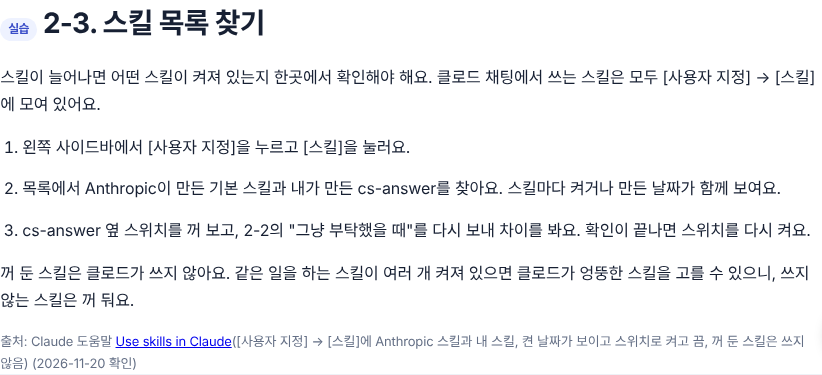
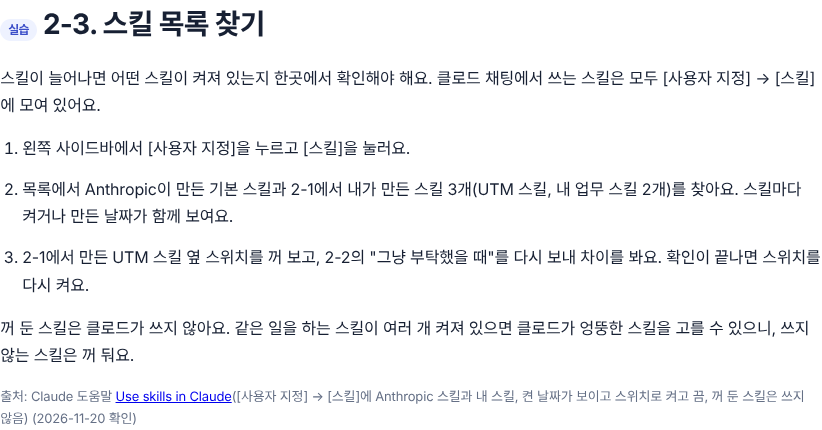
4주차 DAY5: 2-1·2-2를 오늘 수업 흐름(UTM 스킬, / 목록, ChatGPT 비교)으로, SESSION 3 세 가지 손 공식 이름·제품별 사용처 추가
Claude-Session: https://claude.ai/code/session_01C4uqyBneZ5NsxtxVEAgaKi

diff --git a/261116-ai-pm-week4/d5-agent.html b/261116-ai-pm-week4/d5-agent.html
@@ -311,7 +311,7 @@ aside nav a.active{border-left-color:var(--blue)}
 <div class="grp"><div class="grp-label">오늘의 단어</div><a class="l2" href="#words">오늘의 단어</a></div>
 <div class="grp"><div class="grp-label">SESSION 1</div><a class="l2" href="#s1">에이전트란? 채팅과 무엇이 다른가</a><a class="l3" href="#s1-1">1-1. 한 번 답하기 vs 끝까지 해 나가기</a><a class="l3" href="#s1-2">1-2. ChatGPT·Claude·Gemini의 에이전트 기능 이름</a><a class="l3" href="#s1-3">1-3. 이번 주 작업에서 에이전트 단계 찾기</a></div>
 <div class="grp"><div class="grp-label">SESSION 2</div><a class="l2" href="#s2">스킬: 일하는 방법을 적어 두기</a><a class="l3" href="#s2-1">2-1. 클로드 채팅에서 스킬 만들기</a><a class="l3" href="#s2-2">2-2. 스킬 써 보기</a><a class="l3" href="#s2-3">2-3. 스킬 목록 찾기</a><a class="l3" href="#s2-4">2-4. 많이 쓰이는 공개 스킬 찾아서 써 보기</a><a class="l3" href="#s2-5">2-5. 결과</a></div>
-<div class="grp"><div class="grp-label">SESSION 3</div><a class="l2" href="#s3">손이 생긴 AI: 커넥터·브라우저·컴퓨터</a><a class="l3" href="#s3-1">3-1. 세 가지 손 견주기</a><a class="l3" href="#s3-2">3-2. 브라우저 손으로 정보 모으기</a></div>
+<div class="grp"><div class="grp-label">SESSION 3</div><a class="l2" href="#s3">손이 생긴 AI: 커넥터·클로드 인 크롬·컴퓨터 유즈</a><a class="l3" href="#s3-1">3-1. 세 가지 손: 공식 이름과 뜻</a><a class="l3" href="#s3-2">3-2. 클로드 인 크롬으로 정보 모으기</a></div>
 <div class="grp"><div class="grp-label">SESSION 4</div><a class="l2" href="#s4">사람이 확인할 곳 정하기</a><a class="l3" href="#s4-1">4-1. 쿠폰을 만들었다고 했는데, 아무것도 없었어요</a><a class="l3" href="#s4-2">4-2. 내 서비스의 '사람이 확인할 곳' 표</a><a class="l3" href="#s4-3">4-3. 결과</a></div>
 <div class="grp"><div class="grp-label">SESSION 5</div><a class="l2" href="#s5">4주차 회고</a><a class="l3" href="#s5-1">5-1. 이번 주 결과물 모으기</a></div>
 <div class="grp"><div class="grp-label">마무리</div><a class="l2" href="#wrap">오늘 정리와 과제</a></div>
@@ -323,11 +323,11 @@ aside nav a.active{border-left-color:var(--blue)}
 <header class="hero">
 <div class="kicker">AI 프로덕트 매니저 · 4주차 DAY 5 · 2026.11.20 (금)</div>
 <h1>시키는 AI에서 <em>맡기는 AI</em>로: 클로드 에이전트 기능</h1>
-<p>이번 주에는 채팅을 만들고, API를 붙이고, 개발 도구를 바꿔 보고, 크롬 확장 프로그램을 만들었어요. 오늘은 이 일을 AI가 여러 단계로 나눠 스스로 해 나가게 하는 기능을 써 봐요. 클로드 채팅에서 일하는 방법을 적어 두는 스킬을 만들어 쓰고, 앱과 브라우저를 쓰는 손을 다뤄요. 마지막에는 사람이 꼭 확인해야 하는 곳을 정해요.</p>
+<p>이번 주에는 채팅을 만들고, API를 붙이고, 개발 도구를 바꿔 보고, 크롬 확장 프로그램을 만들었어요. 오늘은 이 일을 AI가 여러 단계로 나눠 스스로 해 나가게 하는 기능을 써 봐요. 클로드 채팅에서 일하는 방법을 적어 두는 스킬을 만들어 쓰고, 앱과 브라우저와 컴퓨터를 쓰는 손(커넥터·클로드 인 크롬·컴퓨터 유즈)을 다뤄요. 마지막에는 사람이 꼭 확인해야 하는 곳을 정해요.</p>
 <div class="hero-grid">
 <div><b>일정</b><span>11월 20일(금) 09:00–18:00 · 실시간 비대면</span></div>
-<div><b>준비물</b><span>클로드 데스크톱 앱(또는 claude.ai), 월요일에 고친 상담 챗봇 규칙, 이번 주 결과물 링크</span></div>
-<div><b>오늘의 결과물</b><span>답변 규칙 스킬 + 공개 스킬 1개 + 사람이 확인할 곳 표 + 4주차 회고</span></div>
+<div><b>준비물</b><span>클로드 데스크톱 앱(또는 claude.ai), 목요일에 UTM 링크를 만든 클로드 대화, 이번 주 결과물 링크</span></div>
+<div><b>오늘의 결과물</b><span>UTM 스킬 + 내 업무 스킬 2개 + 공개 스킬 1개 + 사람이 확인할 곳 표 + 4주차 회고</span></div>
 </div>
 <nav aria-label="4주차 교안" class="day-nav"><a href="./">4주차 홈</a><a href="./d1-claude-code-chatbot.html">DAY 1 AI 채팅</a><a href="./d2-api.html">DAY 2 블로그·API</a><a href="./d3-dev-env.html">DAY 3 개발 환경</a><a href="./d4-chrome-extension.html">DAY 4 크롬 확장</a><a aria-current="page" href="./d5-agent.html">DAY 5 에이전트</a><a href="../261109-ai-pm-week3/">3주차 홈</a></nav>
 </header>
@@ -337,7 +337,7 @@ aside nav a.active{border-left-color:var(--blue)}
 <tr><th>시간</th><td>09:00–18:00 (점심 12:00–13:00, 수업 8시간)</td></tr>
 <tr><th>교과</th><td>[기본] AI 서비스 개발 · 16일차 (총 18일)</td></tr>
 <tr><th>교육 목표</th><td>에이전트가 무엇인지 설명하고, 클로드 채팅에서 스킬을 만들어 쓰며, 에이전트에게 맡길 때 사람이 확인할 곳을 기획서에 적는다.</td></tr>
-<tr><th>수업이 끝나면</th><td>① 채팅과 에이전트의 차이를 말하기<br/>② 반복해서 쓰는 지시를 클로드 채팅에서 스킬로 만들고, 목록에서 켜고 끄기<br/>③ 공개 스킬을 찾아 올려 써 보기<br/>④ 커넥터·브라우저·컴퓨터를 쓰는 에이전트의 쓰임과 위험 말하기<br/>⑤ '사람이 확인할 곳' 표 쓰기</td></tr>
+<tr><th>수업이 끝나면</th><td>① 채팅과 에이전트의 차이를 말하기<br/>② 반복해서 하는 일을 클로드 채팅에서 스킬로 만들고, /로 불러 쓰고, 목록에서 켜고 끄기<br/>③ 공개 스킬을 찾아 올려 써 보기<br/>④ 커넥터·클로드 인 크롬·컴퓨터 유즈의 뜻과 쓸 수 있는 제품, 위험 말하기<br/>⑤ '사람이 확인할 곳' 표 쓰기</td></tr>
 </table></div>
 </section>
 
@@ -356,7 +356,7 @@ aside nav a.active{border-left-color:var(--blue)}
 <tr><td>10:20–12:00</td><td>SESSION 2</td><td><a href="#s2">스킬: 일하는 방법을 적어 두기</a></td></tr>
 <tr><td>12:00–13:00</td><td>점심</td><td></td></tr>
 <tr><td>13:00–14:20</td><td>SESSION 2</td><td><a href="#s2-3">스킬: 일하는 방법을 적어 두기</a> (2-3 목록 찾기, 2-4 공개 스킬 써 보기)</td></tr>
-<tr><td>14:30–15:30</td><td>SESSION 3</td><td><a href="#s3">손이 생긴 AI: 커넥터·브라우저·컴퓨터</a></td></tr>
+<tr><td>14:30–15:30</td><td>SESSION 3</td><td><a href="#s3">손이 생긴 AI: 커넥터·클로드 인 크롬·컴퓨터 유즈</a></td></tr>
 <tr><td>15:40–16:40</td><td>SESSION 4</td><td><a href="#s4">사람이 확인할 곳 정하기</a></td></tr>
 <tr><td>16:50–17:40</td><td>SESSION 5</td><td><a href="#s5">4주차 회고</a></td></tr>
 <tr><td>17:40–18:00</td><td>정리</td><td><a href="#wrap">오늘 정리와 다음 주 안내</a></td></tr>
@@ -370,7 +370,9 @@ aside nav a.active{border-left-color:var(--blue)}
 <tr><td><b>에이전트(Agent)</b></td><td>영어 agent는 '남을 대신해 일을 처리하는 사람(대리인)'이라는 뜻이에요. AI 에이전트는 사용자가 준 <b>목표</b>를 이루려고, 다음에 할 일을 스스로 정하고, 도구(파일 만들기, 명령 실행, 검색, 앱 연결)를 쓰고, 결과를 확인하는 과정을 일이 끝날 때까지 되풀이하는 AI예요. 정해진 대본대로 움직이지 않고 순서를 스스로 정한다는 점이 핵심이에요.</td></tr>
 <tr><td><b>워크플로(Workflow)</b></td><td>사람이 미리 정해 둔 순서대로만 AI와 도구가 움직이는 자동화예요. 예를 들어 "매일 9시에 새 문의를 표로 정리"는 순서가 고정된 워크플로예요. 에이전트는 어디를 찾아볼지, 어떤 순서로 할지를 AI가 정해요.</td></tr>
 <tr><td><b>스킬(Skill)</b></td><td>AI가 특정 일을 매번 같은 방식으로 하도록 순서·규칙·참고 자료를 하나의 폴더로 묶어 둔 것이에요. 폴더 안에는 반드시 SKILL.md 파일이 있어요. 클로드는 평소에 스킬의 이름과 설명(description)만 알고 있다가, 내 요청이 설명과 맞으면 그때 SKILL.md 전체를 읽고 그대로 일해요. 같은 형식을 ChatGPT와 Gemini도 지원하는 공개 표준이에요.</td></tr>
-<tr><td><b>커넥터(MCP)</b></td><td>클로드를 슬랙, 구글 드라이브 같은 앱에 잇는 연결</td></tr>
+<tr><td><b>커넥터(Connectors)</b></td><td>클로드를 슬랙, 구글 드라이브 같은 바깥 앱에 이어, 그 안의 정보를 찾고 일을 대신하게 하는 연결. 연결 방식이 MCP라서 'MCP 커넥터'라고도 불러요.</td></tr>
+<tr><td><b>클로드 인 크롬(Claude in Chrome)</b></td><td>크롬 브라우저에 설치하는 클로드 확장 프로그램. 내가 로그인한 웹페이지를 클로드가 읽고, 누르고, 입력해요.</td></tr>
+<tr><td><b>컴퓨터 유즈(Computer use)</b></td><td>클로드가 내 컴퓨터 화면을 보고 마우스·키보드로 앱을 조작하는 기능. 클로드 데스크톱 앱에서 켜야 써요.</td></tr>
 <tr><td><b>사람이 확인할 곳(승인 지점)</b></td><td>AI가 다음 단계로 넘어가기 전에 사람이 보고 '예'를 눌러야 하는 곳</td></tr>
 </table></div>
 </section>
@@ -417,46 +419,65 @@ aside nav a.active{border-left-color:var(--blue)}
 <div class="why-box"><b>왜 하나?</b>팀이 같은 규칙으로 일하게 하려면 규칙이 사람 머릿속이 아니라 파일에 있어야 해요. 스킬은 '일하는 방법'을 파일로 남기는 방법이에요.</div></div>
 
 <div class="topic" id="s2-1"><h3><span class="stage">실습</span>2-1. 클로드 채팅에서 스킬 만들기</h3>
-<p>스킬은 클로드 채팅에서 대화로 만들 수 있어요. 내가 원하는 일을 말하면, 클로드가 Anthropic이 만든 <b>skill-creator</b>(스킬을 만들어 주는 스킬)를 불러와 SKILL.md 파일을 쓰고, 스킬 파일로 묶어 줘요. 오늘은 월요일에 상담 챗봇의 답을 시험하고 고쳤던 규칙을 스킬로 만들어요.</p>
-<h4>먼저 확인할 것</h4>
-<div class="table-wrap"><table><tr><th>확인할 곳</th><th>켜 둘 것</th></tr>
-<tr><td>[설정] → [기능]</td><td>코드 실행과 파일 만들기 기능. 스킬은 이 기능 위에서 움직여요</td></tr>
-<tr><td>[사용자 지정] → [스킬]</td><td>Anthropic 스킬 목록의 <b>skill-creator</b> 스위치</td></tr>
-</table></div>
+<h4>스킬이 생기기 전에는 이렇게 했어요</h4>
+<p>잘 된 작업을 다음에 또 하고 싶을 때, 예전에는 그 대화의 방법을 프롬프트 한 개로 정리해 달라고 한 뒤 메모장에 모아 두고 다시 붙여 넣었어요. 이렇게 AI에게 프롬프트 자체를 만들어 달라고 하는 것을 <b>메타 프롬프팅</b>이라고 불러요.</p>
+<div class="copybox"><div class="copyhead"><span>예전 방식 · 프롬프트로 정리해 두기</span><button type="button">복사</button></div><pre>방금 대화에서 진행했던 [작업 이름] 작업을 다음에 또 쓸 수 있도록, 하나의 프롬프트로 정리해 줘.</pre></div>
+<p>이 방법은 프롬프트를 내가 보관하고 매번 붙여 넣어야 해요. 스킬로 만들면 클로드가 보관하고, 맞는 일이 생기면 스스로 꺼내 써요.</p>
+
+<h4>따라 하기: 목요일의 UTM 만들기를 스킬로 만들기</h4>
+<p>목요일에 채널별 UTM 링크표를 만들었던 것 기억하시나요? 그때 정한 규칙(소문자만 쓰기, source·medium·campaign 넣기 등)을 매번 다시 설명하지 않도록 스킬로 만들어요.</p>
 <ol class="do-steps">
-<li><p>클로드 채팅에서 새 대화를 열고 아래 프롬프트를 보내요. 월요일에 고친 규칙이 있으면 [ ] 자리에 붙여 넣어요.</p>
-<div class="copybox"><div class="copyhead"><span>프롬프트 1 · 클로드 채팅 입력창에 붙여 넣으세요</span><button type="button">복사</button></div><pre>요청: 쇼핑몰 고객 문의에 답변 초안을 쓰는 스킬을 만들고 싶어. 스킬 이름은 cs-answer로 해 줘.
-내용: 이 스킬은 '이커머스 셀렉트마켓' 고객 문의(배송, 쿠폰, 교환·환불)에 답변 초안을 쓸 때 써. 규칙은 ① 운영 정책에 적힌 내용만 근거로 답하기 ② 모르면 '확인 후 안내드릴게요'라고 하기 ③ 해요체 3문장 이내 ④ 이름·전화번호 같은 개인정보는 묻지 않기. [월요일에 고친 규칙이 있으면 붙여 넣으세요]
-형식: 스킬을 만들기 전에 나에게 필요한 질문을 먼저 해 줘. 다 만들면 SKILL.md 내용을 보여 줘.</pre></div></li>
-<li><p>클로드가 질문하면 답해요. 클로드가 일하는 단계를 펼쳐 보면, skill-creator 스킬을 불러와 순서대로 만드는 것을 볼 수 있어요.</p></li>
-<li><p>클로드가 보여 준 SKILL.md를 읽어요. 맨 위 <code class="inline">---</code> 사이의 <b>description</b>(언제 쓰는 스킬인지) 한 줄과, 규칙 4개가 빠지지 않았는지 확인해요. 고칠 곳이 있으면 "규칙 ③을 '해요체 2문장 이내'로 바꿔 줘"처럼 말로 고쳐 달라고 해요.</p></li>
-<li><p>클로드가 만든 스킬 파일을 안내에 따라 저장해요. 저장한 스킬은 2-3에서 보는 [사용자 지정] → [스킬] 목록에 들어가요.</p></li>
+<li><p>목요일에 UTM 링크를 만들었던 클로드 대화를 열어요. 대화가 없으면 새 대화에서 UTM 링크를 한 번 만든 뒤 이어서 해요.</p></li>
+<li><p>같은 대화에 아래 프롬프트를 보내요.</p>
+<div class="copybox"><div class="copyhead"><span>프롬프트 1 · UTM 만들기를 스킬로</span><button type="button">복사</button></div><pre>UTM을 만드는 과정을 다음에 쓸 수 있도록 내장 스킬로 만들어 줘.</pre></div></li>
+<li><p>클로드가 "스킬 제안을 위해 SKILL.md 초안 작성 중"이라고 보여 준 뒤, [Skill 저장] 카드를 띄워요. 카드에는 스킬 이름(예: /utm-link-builder)과 언제 쓰는 스킬인지 적은 설명이 보여요.</p></li>
+<li><p>카드의 [콘텐츠 &gt;]를 눌러 SKILL.md를 읽어요. 카드에도 "저장하기 전에 콘텐츠를 열어 Skill을 읽어 보세요"라고 적혀 있어요. 목요일에 정한 규칙이 빠졌으면 &lt;닫기&gt;를 누르고 "소문자만 쓰는 규칙을 넣어서 다시 만들어 줘"처럼 고쳐 달라고 해요.</p></li>
+<li><p>내용이 맞으면 &lt;저장&gt;을 눌러요.</p></li>
 </ol>
-<p>[사용자 지정] → [스킬] 화면의 &lt;+&gt; → [스킬 만들기]에서도 스킬을 만들 수 있어요. 이미 만든 스킬 폴더를 ZIP 파일로 올릴 때 이 길을 써요(2-4에서 해 봐요).</p>
-<p class="source-note">출처: Claude Academy <a href="https://academy.claude.com/tutorials/how-to-create-a-skill-with-claude-through-conversation" target="_blank" rel="noopener">How to create a skill with Claude through conversation</a>(새 대화에서 원하는 스킬을 말하면 skill-creator로 SKILL.md를 만들고 스킬 파일로 묶음) · Claude 도움말 <a href="https://support.claude.com/en/articles/12512180-use-skills-in-claude" target="_blank" rel="noopener">Use skills in Claude</a>(코드 실행 필요, [사용자 지정] → [스킬]에서 + → 스킬 만들기) · Claude 문서 <a href="https://claude.com/docs/skills/how-to" target="_blank" rel="noopener">Create custom skills</a>(skill-creator는 [사용자 지정] → [스킬]에서 Anthropic 스킬로 켬) (2026-11-20 확인)</p>
+<p>스킬을 만들 때도 사용량이 쌓여요. 실습 전에 설정의 사용량 화면에서 주간 사용 한도와 일일 사용 한도가 얼마나 남았는지 확인해 둬요.</p>
+
+<h4>실습: 내 업무 2가지를 스킬로 만들기</h4>
+<p>내가 자주 하는 일을 떠올려 2가지를 골라요. 예를 들어 주간 보고서 쓰기, 회의록 정리, 경쟁사 비교표 만들기처럼 매번 같은 형식으로 하는 일이 좋아요. 그 일을 한 번 클로드와 해 본 뒤, 같은 대화에서 "방금 한 [작업 이름]을 다음에 쓸 수 있도록 내장 스킬로 만들어 줘"라고 보내 스킬로 저장해요.</p>
+<div class="table-wrap tpl"><table><tr><th>업무</th><th>스킬 이름</th><th>설명(언제 쓰나)</th><th>저장했나</th></tr>
+<tr><td></td><td></td><td></td><td></td></tr>
+<tr><td></td><td></td><td></td><td></td></tr>
+</table></div>
+<p class="source-note">출처: 2026-11-20 강사 화면(클로드 채팅의 [Skill 저장] 카드: 이름·설명·[콘텐츠 &gt;]·&lt;닫기&gt;·&lt;저장&gt;) · Claude Academy <a href="https://academy.claude.com/tutorials/how-to-create-a-skill-with-claude-through-conversation" target="_blank" rel="noopener">How to create a skill with Claude through conversation</a>(대화로 스킬을 만들면 SKILL.md를 만들고 스킬로 묶음) · Claude 도움말 <a href="https://support.claude.com/en/articles/12512180-use-skills-in-claude" target="_blank" rel="noopener">Use skills in Claude</a>(스킬은 코드 실행 기능이 켜져 있어야 함) (2026-11-20 확인)</p>
 </div>
 
 <div class="topic" id="s2-2"><h3><span class="stage">실습</span>2-2. 스킬 써 보기</h3>
-<p>스킬은 내가 부르지 않아도 써요. 클로드는 평소에 스킬의 이름과 description만 알고 있다가, 내 요청이 description과 맞으면 그때 스킬 전체를 읽고 그대로 일해요.</p>
+<p>스킬은 두 가지 방법으로 써요. 입력창에서 이름을 골라 직접 부르거나, 그냥 부탁하면 클로드가 설명을 보고 맞는 스킬을 스스로 꺼내 써요.</p>
 <ol class="do-steps">
-<li><p>새 대화를 열고 "고객 문의 답변 써 줘: 쿠폰은 두 장 같이 쓸 수 있나요?"라고 보내요. 규칙은 붙여 넣지 않아요.</p></li>
-<li><p>답이 나오면 클로드가 일한 단계를 펼쳐, cs-answer 스킬을 불러왔는지 확인해요.</p></li>
-<li><p>스킬을 쓰지 않았다면 "cs-answer 스킬로 답해 줘: 배송은 언제 와요?"처럼 스킬 이름을 넣어 다시 보내요.</p></li>
+<li><p>새 대화의 입력창에 <code class="inline">/</code>를 입력해요. 입력창에 "/ 입력하여 필터링"이 보이고, 위로 스킬 목록이 열려요.</p></li>
+<li><p>목록에서 2-1에서 만든 UTM 스킬을 찾아요. 이름 위에 마우스를 올리면 그 스킬의 설명이 보여요. 이름을 몇 글자 입력하면 목록이 좁혀져요.</p></li>
+<li><p>스킬을 고른 뒤, 이어서 홍보할 페이지 주소와 채널을 써서 보내요.</p>
+<div class="copybox"><div class="copyhead"><span>프롬프트 2 · 스킬 이름으로 부르기</span><button type="button">복사</button></div><pre>/utm-link-builder [홍보할 페이지 주소] 채널: 카카오톡 채널, 뷰티 커뮤니티, 직원 지인 추천</pre></div></li>
+<li><p>이번에는 새 대화에서 /를 쓰지 않고 "이 페이지 홍보 링크에 UTM 달아 줘: [주소], 채널은 인스타그램과 뉴스레터"라고 보내요. 클로드가 일한 단계를 펼쳐 UTM 스킬을 불러왔는지 확인해요.</p></li>
+<li><p>2-1에서 만든 내 업무 스킬 2가지도 같은 방법으로 한 번씩 써 봐요.</p></li>
 </ol>
-<div class="table-wrap tpl"><table><tr><th>시험</th><th>스킬을 불러왔나</th><th>규칙을 지켰나(해요체 3문장, 모르면 확인 후 안내)</th></tr>
+<div class="table-wrap tpl"><table><tr><th>시험</th><th>스킬을 불러왔나</th><th>규칙을 지켰나(소문자, source·medium·campaign)</th></tr>
+<tr><td>/로 골라 불렀을 때</td><td></td><td></td></tr>
 <tr><td>그냥 부탁했을 때</td><td></td><td></td></tr>
-<tr><td>스킬 이름을 넣었을 때</td><td></td><td></td></tr>
 </table></div>
-<p>그냥 부탁했을 때 스킬을 부르지 않았다면 description이 흐린 경우가 많아요. 2-1의 대화로 돌아가 "description을 '쇼핑몰 고객의 배송·쿠폰·교환·환불 문의에 답변 초안을 쓸 때'로 더 구체적으로 고쳐 줘"라고 한 뒤 다시 시험해요.</p>
-<p class="source-note">출처: Claude 문서 <a href="https://claude.com/docs/skills/how-to" target="_blank" rel="noopener">Create custom skills</a>(스킬을 켠 뒤 맞는 요청을 보내고, 클로드가 일한 단계에서 스킬을 불러왔는지 확인, 안 되면 description을 고침) · Claude 도움말 <a href="https://support.claude.com/en/articles/12512180-use-skills-in-claude" target="_blank" rel="noopener">Use skills in Claude</a>(쓰지 않으면 요청에 스킬 이름을 넣어 분명히 말하기) (2026-11-20 확인)</p>
+<p>그냥 부탁했을 때 스킬을 부르지 않았다면 설명(description)이 흐린 경우가 많아요. 2-1의 대화로 돌아가 "설명에 'UTM, 홍보 링크, 채널별 링크'라는 말을 넣어 다시 만들어 줘"라고 한 뒤 다시 시험해요.</p>
+<div class="ref-box"><b>선택 실습: ChatGPT에서도 같은 스킬 만들어 보기</b>
+<p>ChatGPT를 쓴다면 같은 UTM 스킬을 ChatGPT에서도 만들어 보고, 화면 위쪽의 [Chat]과 [Work]에서 각각 시험해 봐요.</p>
+<ul>
+<li><b>[Chat]:</b> 스킬을 만들어 주지만 ZIP 파일로만 내려 주고, 내가 직접 올려야 했어요.</li>
+<li><b>[Work]:</b> 그 ZIP 파일을 올리고 "이 파일을 재사용 가능한 스킬로 자동 저장시켜 줘"라고 하면 개인 스킬로 저장까지 해 줬어요. 이후에는 새 대화에서 <code class="inline">@utm-link-builder</code>를 고르거나 "채널별 UTM 링크를 만들어 줘"라고 부탁하면 다시 쓸 수 있어요.</li>
+<li>저장된 스킬은 스킬 화면에서 SKILL.md 내용을 보고 &lt;편집&gt;하거나 &lt;채팅에서 사용해 보기&gt;를 누를 수 있어요.</li>
+</ul>
+<p>같은 SKILL.md 형식이라도 서비스마다 만드는 길, 저장하는 길, 부르는 기호(클로드는 /, ChatGPT는 @)가 달라요.</p>
+</div>
+<p class="source-note">출처: 2026-11-20 강사 화면(클로드 입력창 / 목록과 설명 표시, ChatGPT Chat·Work 비교, ChatGPT 스킬 화면) · Claude 문서 <a href="https://claude.com/docs/skills/how-to" target="_blank" rel="noopener">Create custom skills</a>(클로드가 일한 단계에서 스킬을 불러왔는지 확인, 안 되면 설명을 고침) (2026-11-20 확인)</p>
 </div>
 
 <div class="topic" id="s2-3"><h3><span class="stage">실습</span>2-3. 스킬 목록 찾기</h3>
 <p>스킬이 늘어나면 어떤 스킬이 켜져 있는지 한곳에서 확인해야 해요. 클로드 채팅에서 쓰는 스킬은 모두 [사용자 지정] → [스킬]에 모여 있어요.</p>
 <ol class="do-steps">
 <li><p>왼쪽 사이드바에서 [사용자 지정]을 누르고 [스킬]을 눌러요.</p></li>
-<li><p>목록에서 Anthropic이 만든 기본 스킬과 내가 만든 cs-answer를 찾아요. 스킬마다 켜거나 만든 날짜가 함께 보여요.</p></li>
-<li><p>cs-answer 옆 스위치를 꺼 보고, 2-2의 "그냥 부탁했을 때"를 다시 보내 차이를 봐요. 확인이 끝나면 스위치를 다시 켜요.</p></li>
+<li><p>목록에서 Anthropic이 만든 기본 스킬과 2-1에서 내가 만든 스킬 3개(UTM 스킬, 내 업무 스킬 2개)를 찾아요. 스킬마다 켜거나 만든 날짜가 함께 보여요.</p></li>
+<li><p>2-1에서 만든 UTM 스킬 옆 스위치를 꺼 보고, 2-2의 "그냥 부탁했을 때"를 다시 보내 차이를 봐요. 확인이 끝나면 스위치를 다시 켜요.</p></li>
 </ol>
 <p>꺼 둔 스킬은 클로드가 쓰지 않아요. 같은 일을 하는 스킬이 여러 개 켜져 있으면 클로드가 엉뚱한 스킬을 고를 수 있으니, 쓰지 않는 스킬은 꺼 둬요.</p>
 <p class="source-note">출처: Claude 도움말 <a href="https://support.claude.com/en/articles/12512180-use-skills-in-claude" target="_blank" rel="noopener">Use skills in Claude</a>([사용자 지정] → [스킬]에 Anthropic 스킬과 내 스킬, 켠 날짜가 보이고 스위치로 켜고 끔, 꺼 둔 스킬은 쓰지 않음) (2026-11-20 확인)</p>
@@ -489,37 +510,49 @@ aside nav a.active{border-left-color:var(--blue)}
 </div>
 
 <div class="topic" id="s2-5"><h3><span class="stage">결과</span>2-5. 결과</h3>
-<div class="result-box"><b>결과물</b> cs-answer 스킬 + 공개 스킬 1개 업로드</div>
-<p class="ok-line"><b>이렇게 보이면 성공</b>규칙을 붙여 넣지 않아도 답변이 해요체 3문장 이내로 나오고, [사용자 지정] → [스킬] 목록에 cs-answer와 올린 공개 스킬이 켜져 있다</p>
+<div class="result-box"><b>결과물</b> UTM 스킬 + 내 업무 스킬 2개 + 공개 스킬 1개 업로드</div>
+<p class="ok-line"><b>이렇게 보이면 성공</b>규칙을 다시 설명하지 않아도 /로 부른 UTM 스킬이 목요일 규칙대로 링크를 만들고, [사용자 지정] → [스킬] 목록에 내가 만든 스킬과 올린 공개 스킬이 켜져 있다</p>
 </div>
 </section>
 
 <section class="section session" id="s3">
-<div class="session-head"><div class="eyebrow">SESSION 3 · 14:30–15:30</div><h2>손이 생긴 AI: 커넥터·브라우저·컴퓨터</h2><p>에이전트는 파일만 다루지 않아요. 앱에 연결하고, 브라우저를 누르고, 컴퓨터 화면을 조작해요. 세 가지 손을 견주고 하나를 써 봐요.</p>
+<div class="session-head"><div class="eyebrow">SESSION 3 · 14:30–15:30</div><h2>손이 생긴 AI: 커넥터·클로드 인 크롬·컴퓨터 유즈</h2><p>에이전트는 대화창 안에서만 일하지 않아요. 클로드는 앱에 연결하는 <b>커넥터</b>, 크롬 브라우저를 대신 누르는 <b>클로드 인 크롬</b>, 내 컴퓨터 화면을 직접 조작하는 <b>컴퓨터 유즈</b>라는 세 가지 손을 써요. 세 가지 손의 공식 이름과 뜻, 쓸 수 있는 제품을 견주고, 하나를 써 봐요.</p>
 <div class="why-box"><b>왜 하나?</b>손이 많아질수록 할 수 있는 일도, 잘못될 수 있는 일도 커져요. 어떤 손을 줄지 고르는 것이 기획자의 일이에요.</div></div>
 
-<div class="topic" id="s3-1"><h3><span class="stage">개념</span>3-1. 세 가지 손 견주기</h3>
-<div class="table-wrap"><table><tr><th>손</th><th>무엇으로 일하나</th><th>잘 맞는 일</th><th>조심할 점</th></tr>
-<tr><td><b>커넥터</b></td><td>앱이 열어 둔 API(지난 화요일에 배운 창구)</td><td>슬랙 메시지 찾기, 드라이브 문서 읽기</td><td>연결한 계정의 권한만큼 볼 수 있어요</td></tr>
-<tr><td><b>브라우저</b></td><td>웹페이지를 사람처럼 읽고 눌러요(클로드 인 크롬 등)</td><td>API가 없는 사이트에서 정보 모으기, 양식 채우기</td><td>로그인된 사이트에서 일해요. 보내기·결제는 사람이 눌러요</td></tr>
-<tr><td><b>컴퓨터</b></td><td>화면을 보고 마우스·키보드를 조작해요</td><td>웹이 아닌 데스크톱 앱 작업</td><td>느리고, 화면이 바뀌면 잘못 누를 수 있어요</td></tr>
+<div class="topic" id="s3-1"><h3><span class="stage">개념</span>3-1. 세 가지 손: 공식 이름과 뜻</h3>
+<div class="table-wrap"><table><tr><th>공식 이름</th><th>뜻</th><th>무엇으로 일하나</th><th>잘 맞는 일</th><th>조심할 점</th></tr>
+<tr><td><b>커넥터</b>(Connectors)</td><td>클로드를 바깥 앱이나 서비스(캘린더, 문서, 업무 관리 도구 등)에 이어, 그 안의 정보를 찾고 일을 대신하게 하는 연결이에요. 연결하는 방식이 MCP라서 'MCP 커넥터'라고도 불러요.</td><td>앱이 열어 둔 창구(API). 화요일에 배운 API를 클로드가 대신 불러요</td><td>슬랙 메시지 찾기, 구글 드라이브 문서 읽기</td><td>연결한 계정의 권한만큼 볼 수 있어요</td></tr>
+<tr><td><b>클로드 인 크롬</b>(Claude in Chrome)</td><td>크롬 브라우저에 설치하는 클로드 확장 프로그램이에요. 내가 로그인한 웹페이지를 클로드가 읽고, 누르고, 입력하고, 양식을 채워요.</td><td>웹페이지를 사람처럼 읽고 눌러요</td><td>API가 없는 사이트에서 정보 모으기, 양식 채우기</td><td>내 로그인 상태로 일해요. 보내기·결제는 사람이 눌러요</td></tr>
+<tr><td><b>컴퓨터 유즈</b>(Computer use)</td><td>클로드가 내 컴퓨터 화면을 보고 마우스와 키보드로 앱을 열고, 누르고, 입력하는 기능이에요. 쓸 커넥터나 도구가 없을 때 마지막으로 쓰는 손이에요.</td><td>화면 캡처를 보고 마우스·키보드를 조작해요</td><td>웹이 아닌 데스크톱 앱 작업</td><td>느리고, 화면이 바뀌면 잘못 누를 수 있어요. 처음에는 꺼져 있어서 설정에서 켜야 해요</td></tr>
 </table></div>
-<p>손과 함께 쓰는 것이 <b>예약 작업</b>이에요. "매일 아침 9시에 슬랙의 어제 문의를 모아 정리해 줘"처럼 정해진 때에 같은 일을 다시 맡겨요. 사람이 보지 않는 시간에 돌기 때문에, 4세션의 '사람이 확인할 곳'이 더 중요해져요.</p>
+<p>세 가지 손이 모두 있으면 클로드는 정해진 순서로 골라요. 그 서비스의 커넥터가 있으면 커넥터를, 브라우저 일이고 클로드 인 크롬이 연결되어 있으면 클로드 인 크롬을 쓰고, 둘 다 해당하지 않을 때 컴퓨터 유즈를 써요. 빠르고 정확한 손부터 쓰는 거예요.</p>
+
+<h4>어느 제품에서 쓸 수 있나요?</h4>
+<div class="table-wrap"><table><tr><th>제품</th><th>커넥터</th><th>클로드 인 크롬</th><th>컴퓨터 유즈</th></tr>
+<tr><td><b>클로드 채팅</b>(웹 claude.ai)</td><td>쓸 수 있어요(무료 포함)</td><td>컴퓨터의 클로드 데스크톱 앱이 켜져 있을 때 그 앱을 거쳐 써요</td><td>컴퓨터의 클로드 데스크톱 앱이 켜져 있을 때 그 앱을 거쳐 써요</td></tr>
+<tr><td><b>클로드 데스크톱 앱</b>(채팅·Cowork)</td><td>쓸 수 있어요. 내 컴퓨터에 설치하는 '데스크톱 확장'도 쓸 수 있어요</td><td>쓸 수 있어요(유료 요금제)</td><td>쓸 수 있어요(Pro·Max·Ultra, 맥·윈도우)</td></tr>
+<tr><td><b>클로드 데스크톱 앱의 [Code] 탭</b>(클로드 코드)</td><td>쓸 수 있어요. 입력창 옆 &lt;+&gt;에서 추가해요</td><td>쓸 수 있어요(유료 요금제)</td><td>쓸 수 있어요(Pro·Max·Ultra, 맥·윈도우)</td></tr>
+<tr><td><b>클로드 모바일 앱</b>(iOS·안드로이드)</td><td>쓸 수 있어요</td><td>컴퓨터의 클로드 데스크톱 앱이 켜져 있을 때 그 앱을 거쳐 써요</td><td>컴퓨터의 클로드 데스크톱 앱이 켜져 있을 때 그 앱을 거쳐 써요</td></tr>
+<tr><td><b>크롬 사이드 패널</b></td><td>—</td><td>쓸 수 있어요(유료 요금제)</td><td>—</td></tr>
+</table></div>
+<p>정리하면, 커넥터는 대부분의 클로드 제품에서 쓰고, 클로드 인 크롬과 컴퓨터 유즈는 내 컴퓨터에 있는 것을 만지기 때문에 <b>클로드 데스크톱 앱이 켜져 있어야</b> 해요. 컴퓨터 유즈는 아직 리눅스에서는 쓸 수 없어요.</p>
+<p>손과 함께 쓰는 것이 <b>예약 작업</b>이에요. "매일 아침 9시에 슬랙의 어제 문의를 모아 정리해 줘"처럼 정해진 때에 같은 일을 다시 맡겨요. 사람이 보지 않는 시간에 돌기 때문에, 4세션의 '사람이 확인할 곳'이 더 중요해져요.</p>
+<p class="source-note">출처: Claude 문서 <a href="https://claude.com/docs/connectors/getting-started" target="_blank" rel="noopener">Get started with connectors</a>(커넥터의 뜻, 웹·데스크톱·모바일에서 사용) · Claude 도움말 <a href="https://support.claude.com/en/articles/11176164-use-connectors-to-extend-claude-s-capabilities" target="_blank" rel="noopener">Use connectors to extend Claude's capabilities</a>(웹 커넥터는 모든 사용자, 데스크톱 확장은 데스크톱 앱) · <a href="https://support.claude.com/en/articles/12012173-get-started-with-claude-in-chrome" target="_blank" rel="noopener">Get started with Claude in Chrome</a>(유료 요금제, 크롬 사이드 패널·Cowork·클로드 코드에서 사용) · <a href="https://support.claude.com/en/articles/14128542-let-claude-use-your-computer-in-cowork" target="_blank" rel="noopener">Let Claude use your computer in Cowork</a>(컴퓨터 유즈는 Pro·Max·Ultra, 데스크톱 앱의 Cowork와 클로드 코드, 맥·윈도우) · <a href="https://support.claude.com/en/articles/15520349-use-claude-cowork-on-web-desktop-and-mobile" target="_blank" rel="noopener">Use Claude Cowork on web, desktop, and mobile</a>(웹·모바일의 브라우저 사용과 컴퓨터 유즈는 데스크톱 앱을 거침) · Claude Code 문서 <a href="https://code.claude.com/docs/en/desktop" target="_blank" rel="noopener">Desktop application</a>(컴퓨터 유즈는 처음에 꺼져 있음, 커넥터→클로드 인 크롬→컴퓨터 유즈 순서) · <a href="https://claude.com/download" target="_blank" rel="noopener">Download Claude</a>(컴퓨터 유즈는 리눅스 미지원) (2026-11-20 확인)</p>
 <p>더 읽기: <a href="../drafts/261110-agent-desktop/index.html" target="_blank" rel="noopener">사진 대신 이름표로 · Vercel agent-desktop</a> (화면 사진 대신 이름표로 앱을 누르는 방법)</p>
 </div>
 
-<div class="topic" id="s3-2"><h3><span class="stage">실습</span>3-2. 브라우저 손으로 정보 모으기</h3>
-<p>화요일에 공공데이터포털에서 이용 조건을 손으로 읽어 표를 채웠던 것 기억하시나요? 같은 일을 브라우저를 쓰는 클로드에게 맡겨 봐요.</p>
-<div class="copybox"><div class="copyhead"><span>프롬프트 2 · 브라우저를 쓸 수 있는 클로드에게</span><button type="button">복사</button></div><pre>요청: 공공데이터포털에서 '기상청_단기예보 조회서비스' 상세 화면을 열고 이용 조건을 읽어 줘.
+<div class="topic" id="s3-2"><h3><span class="stage">실습</span>3-2. 클로드 인 크롬으로 정보 모으기</h3>
+<p>화요일에 공공데이터포털에서 이용 조건을 손으로 읽어 표를 채웠던 것 기억하시나요? 같은 일을 클로드 인 크롬에 맡겨 봐요.</p>
+<div class="copybox"><div class="copyhead"><span>프롬프트 3 · 브라우저를 쓸 수 있는 클로드에게</span><button type="button">복사</button></div><pre>요청: 공공데이터포털에서 '기상청_단기예보 조회서비스' 상세 화면을 열고 이용 조건을 읽어 줘.
 내용: 로그인, 활용신청, 그 밖에 무엇을 누르거나 보내는 일은 하지 말고 읽기만 해 줘.
 형식: 비용부과유무 / 심의유형 / 신청 가능 트래픽 / 이용허락범위 4줄과, 읽은 페이지 주소.</pre></div>
-<div class="table-wrap tpl"><table><tr><th>견줄 것</th><th>화요일에 내가 읽은 값</th><th>브라우저 클로드가 읽은 값</th></tr>
+<div class="table-wrap tpl"><table><tr><th>견줄 것</th><th>화요일에 내가 읽은 값</th><th>클로드 인 크롬이 읽은 값</th></tr>
 <tr><td>비용부과유무</td><td></td><td></td></tr>
 <tr><td>심의유형</td><td></td><td></td></tr>
 <tr><td>신청 가능 트래픽</td><td></td><td></td></tr>
 <tr><td>걸린 시간</td><td></td><td></td></tr>
 </table></div>
-<div class="notice">브라우저를 쓰는 클로드가 없으면 3-1 표의 '잘 맞는 일' 칸에 내 업무 예를 하나씩 더 적어요.</div>
+<div class="notice">클로드 인 크롬을 쓸 수 없으면 3-1 첫 번째 표의 '잘 맞는 일' 칸에 내 업무 예를 하나씩 더 적어요.</div>
 </div>
 </section>
 
@@ -575,11 +608,11 @@ aside nav a.active{border-left-color:var(--blue)}
 <div class="session-head"><div class="eyebrow">정리 · 17:40–18:00</div><h2>오늘 정리와 다음 주 안내</h2></div>
 <div class="tip-box" role="note"><b>오늘의 규칙</b><ul>
 <li>반복해서 붙여 넣는 지시는 스킬로 만든다</li>
-<li>에이전트에게 주는 손(커넥터·브라우저·컴퓨터)은 일에 맞게 가장 적게</li>
+<li>에이전트에게 주는 손(커넥터·클로드 인 크롬·컴퓨터 유즈)은 일에 맞게 가장 적게</li>
 <li>되돌릴 수 없는 일 앞에는 사람이 확인할 곳을, 보고 뒤에는 실제 상태 확인을 둔다</li>
 </ul>
 </div>
-<div class="notice"><b>오늘의 결과물</b><br/>답변 규칙 스킬 + 공개 스킬 1개 + 사람이 확인할 곳 표 + 4주차 회고 표</div>
+<div class="notice"><b>오늘의 결과물</b><br/>UTM 스킬 + 내 업무 스킬 2개 + 공개 스킬 1개 + 사람이 확인할 곳 표 + 4주차 회고 표</div>
 <div class="notice"><b>과제</b><br/>5-1 회고 표를 채우고, 결과물 링크를 과제 저장소에 올려요.</div>
 </section>
 

diff --git a/_pr-notes/w4_DAY5_스킬채팅기준·서브에이전트삭제_261120/README.md b/_pr-notes/w4_DAY5_스킬채팅기준·서브에이전트삭제_261120/README.md
@@ -43,3 +43,26 @@
 ![2-2](after_s2-2.png)
 ![2-3](after_s2-3.png)
 ![2-4](after_s2-4.png)
+
+## 2차 수정 (같은 날): 오늘 수업 흐름 반영, 세 가지 손 공식 이름
+
+### 2-1·2-2를 오늘 수업 기록(슬랙) 흐름으로 다시 씀
+
+| 위치 | 1차 | 2차 |
+|---|---|---|
+| 2-1 | cs-answer(상담 답변) 스킬을 skill-creator로 만들기 | ① 예전 방식(메타 프롬프팅: "방금 대화의 작업을 하나의 프롬프트로 정리해 줘") ② 목요일 UTM 대화에서 "UTM을 만드는 과정을 다음에 쓸 수 있도록 내장 스킬로 만들어 줘" → [Skill 저장] 카드(이름·설명·[콘텐츠 >]·<닫기>·<저장>) ③ 실습: 내 업무 2가지를 스킬로 ④ 사용 한도 확인 |
+| 2-2 | 그냥 부탁하기, 이름 넣어 부탁하기 | 입력창 `/` → "/ 입력하여 필터링" 목록, 이름에 마우스를 올리면 설명, 고른 뒤 주소·채널 이어 쓰기 + 그냥 부탁하기 + (선택) ChatGPT [Chat]과 [Work] 비교(Chat은 ZIP만 내려 줌, Work는 자동 저장, @로 부름) |
+| 준비물·결과물 | 상담 챗봇 규칙 | 목요일 UTM 대화, 결과물은 UTM 스킬 + 내 업무 스킬 2개 + 공개 스킬 1개 |
+
+- 근거: 2026-11-20 강사 화면(클로드 [Skill 저장] 카드, / 목록, ChatGPT Chat·Work·스킬 화면). 로린님 결정에 따라 강사가 화면에서 확인한 내용은 확인된 사실로 넣었습니다.
+- 수업 기록 반영 규칙에 따라 수강생 결과물과 슬랙 이미지는 넣지 않았고, 강사 예시의 개인 스킬 이름(swy-…)과 설명 속 개인 이름은 일반 이름(utm-link-builder)으로 바꿨습니다.
+
+### SESSION 3 세 가지 손: 공식 이름·뜻·쓸 수 있는 제품
+
+- 제목과 표를 공식 이름으로: 커넥터(Connectors) · 클로드 인 크롬(Claude in Chrome) · 컴퓨터 유즈(Computer use). 오늘의 단어에도 세 용어 정의를 넣음.
+- 3-1에 클로드가 손을 고르는 순서(커넥터 → 클로드 인 크롬 → 컴퓨터 유즈)와 제품별 표(클로드 채팅 웹 / 데스크톱 앱 채팅·Cowork / [Code] 탭 / 모바일 앱 / 크롬 사이드 패널)를 추가.
+- 근거(2026-11-20 확인): claude.com/docs/connectors/getting-started, support.claude.com 11176164(커넥터), 12012173(클로드 인 크롬), 14128542(컴퓨터 유즈: Pro·Max·Ultra, 데스크톱 앱 Cowork·클로드 코드, 맥·윈도우), 15520349(웹·모바일의 브라우저·컴퓨터 유즈는 데스크톱 앱을 거침), code.claude.com/docs/en/desktop(컴퓨터 유즈 기본 꺼짐, 손 고르는 순서), claude.com/download(리눅스 미지원)
+
+![s3-1](after_s3-1.png)
+![s3-1 mobile](after_s3-1_390.png)
+![s3-2](after_s3-2.png)
